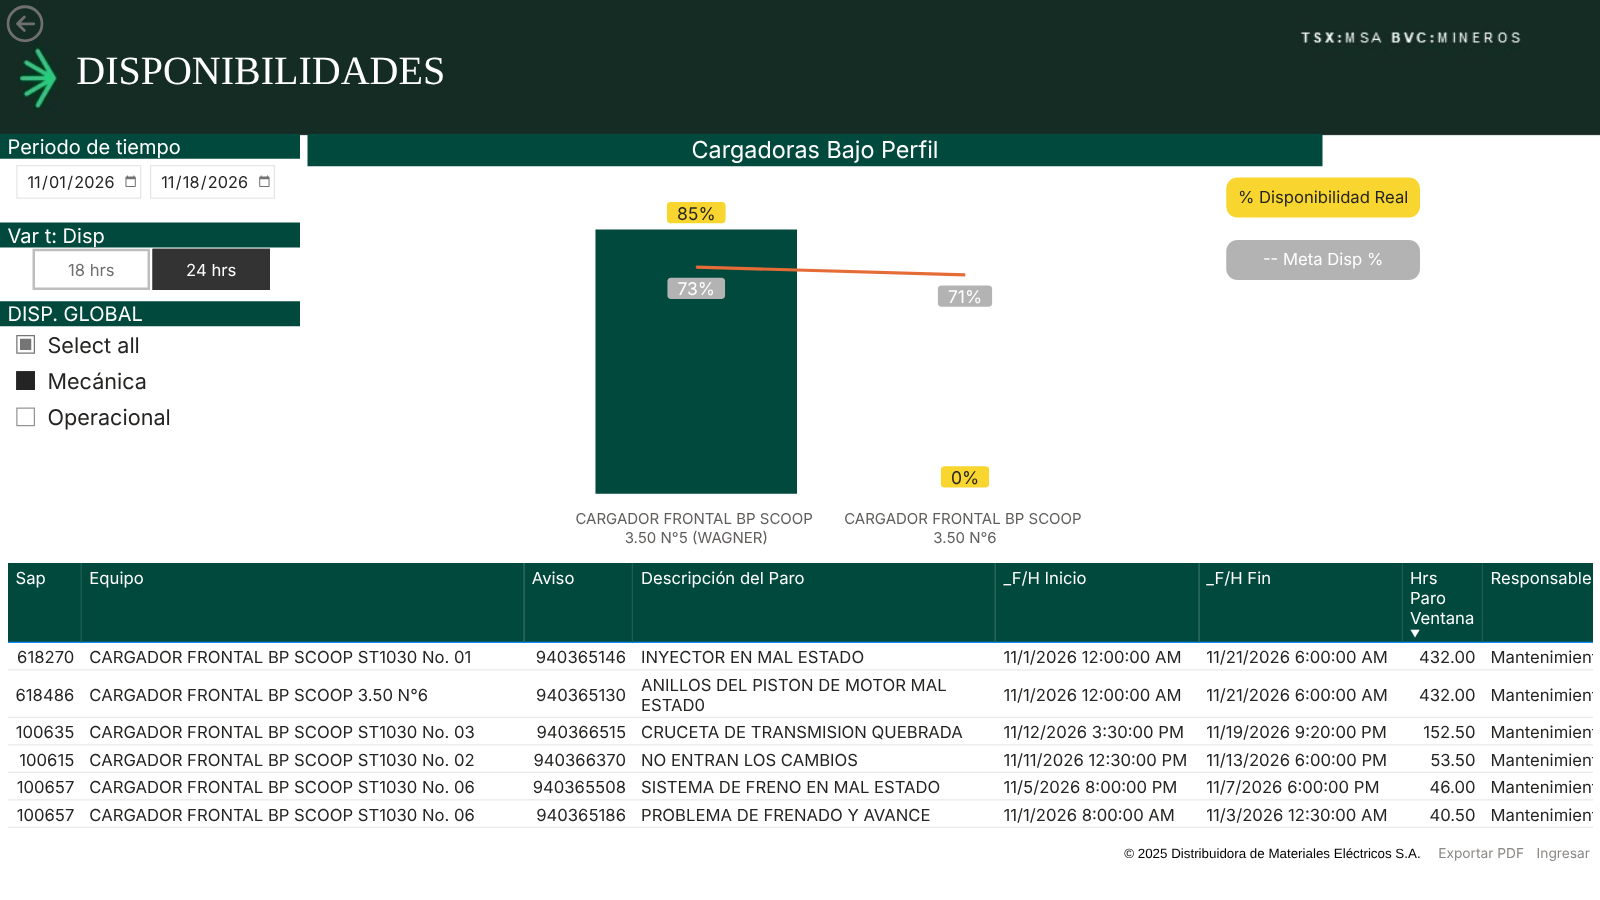
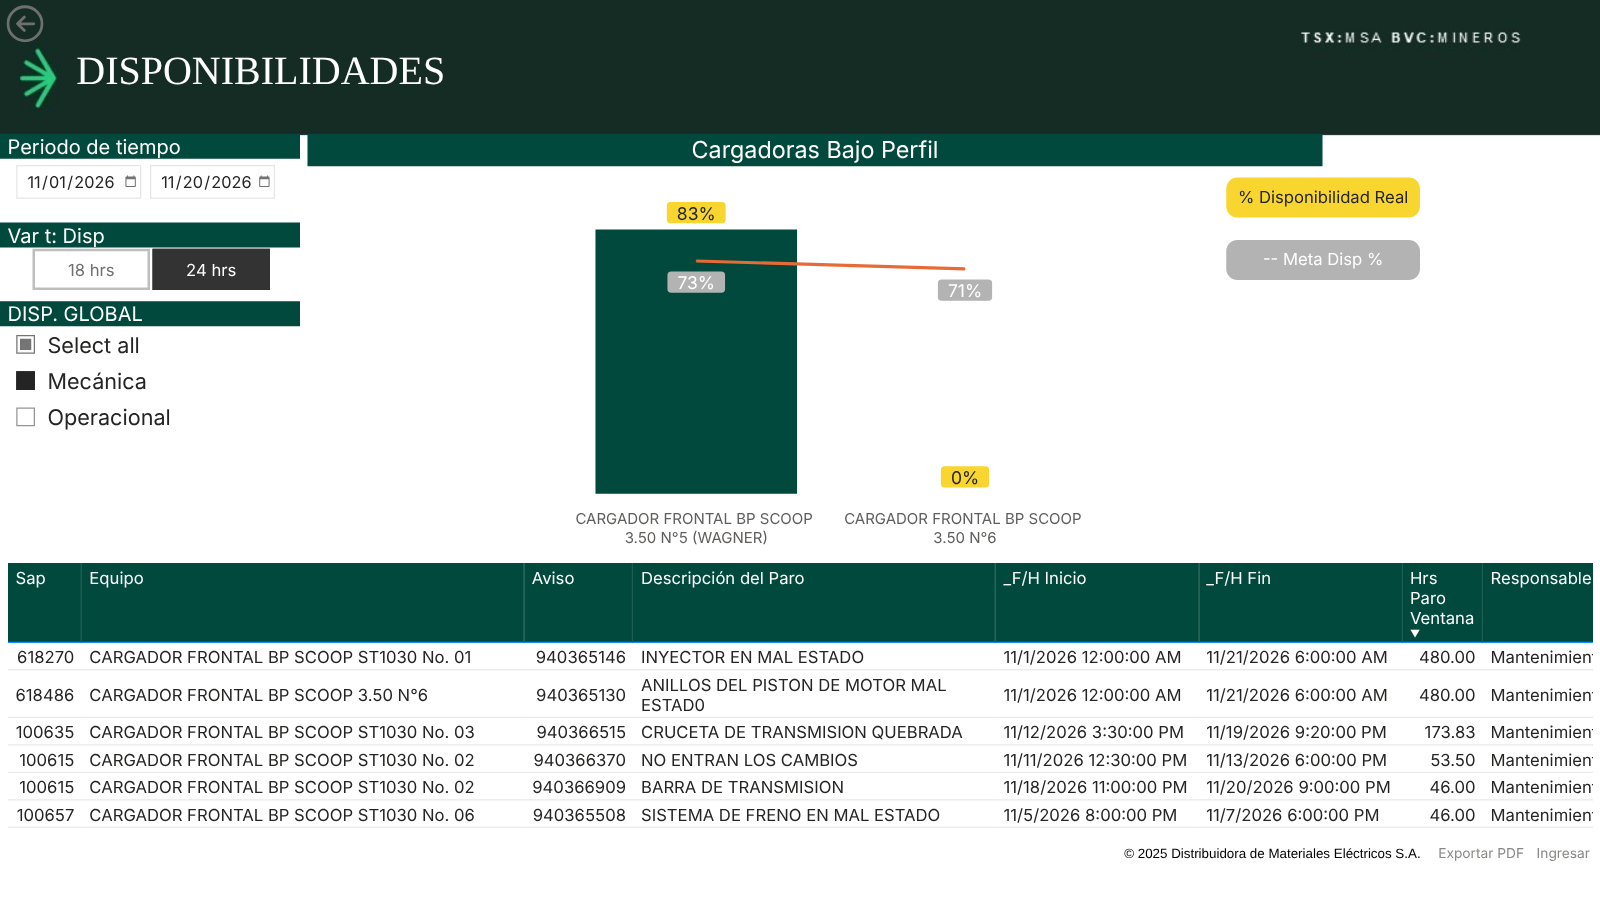
Informe de pruebas sobre la versión publicada con Resumen alineado: 23 de 23 y 0 diferencias
Claude-Session: https://claude.ai/code/session_01S28EfKDVFyr1ZrtpkDQrVX

diff --git a/docs/pruebas/informe_2026-11.md b/docs/pruebas/informe_2026-11.md
@@ -1,13 +1,13 @@
 # Informe de pruebas de punta a punta sobre la web publicada
 
-Fecha de ejecución: 2026-11-26. Web: https://samuelzapata293-wq.github.io/Indicadores-Dimelco/ (JS principal `index-BT9q4XBA.js`). Navegador: Chromium 157.0.8103.78, ventana 1600x900, como invitado. Duración de la corrida: 137 s. Script: `tests/e2e/publicada.mjs`; datos crudos: `docs/pruebas/resultados_e2e.json`.
+Fecha de ejecución: 2026-11-26. Web: https://samuelzapata293-wq.github.io/Indicadores-Dimelco/ (JS principal `index-1enDnb4W.js`). Navegador: Chromium 157.0.8103.78, ventana 1600x900, como invitado. Duración de la corrida: 141 s. Script: `tests/e2e/publicada.mjs`; datos crudos: `docs/pruebas/resultados_e2e.json`.
 
 ## Resumen
 
 - **Valores comparados contra Power BI: 10 466.** Iguales: **10 466**. Diferencias: **0**.
 - Fixtures de Power BI usados: 56 (13 de las capturas originales y 43 de los escenarios a, b, c, c_sindisp, d_conf12, d_conf24, e, f, g_tirolargo y g_sostenimiento).
 - **Comprobaciones funcionales: 23 de 23 pasaron.** No falló ninguna.
-- Tiempo desde abrir la web hasta ver números en Resumen (3 mediciones con caché fría): 2.40 s, 1.62 s, 1.44 s; promedio 1.82 s.
+- Tiempo desde abrir la web hasta ver números en Resumen (3 mediciones con caché fría): 3.37 s, 1.90 s, 1.81 s; promedio 2.36 s.
 - Control negativo: con filtros distintos a los del fixture, la comparación sí detecta diferencias (72 de 144; 630 de 630; 3 de 12; 43 de 126), así que "0 diferencias" no es una comparación vacía.
 
 ## Qué se comparó y cómo se leyó cada visual
@@ -170,7 +170,7 @@ Valores comparados: 227; iguales: 227; diferencias: 0.
 
 | Id | Comprobación | Resultado | Detalle |
 |---|---|---|---|
-| F04 | Portada: 'Data actualizada:' seguido de un rango de fechas válido | pasa | Data actualizada: 01 al 18 de noviembre 2026 |
+| F04 | Portada: 'Data actualizada:' seguido de un rango de fechas válido | pasa | Data actualizada: 01 al 20 de noviembre 2026 |
 | F04b | Portada: los 7 botones llevan a su página | pasa |  |
 | F01a | Filtros encadenados: período, Var t: Disp y DISP de Simba se conservan en Jumbo, Sostenimiento, ST3.5, ST1030 y Resumen | pasa |  |
 | F01b | Con los filtros cambiados, Disp % de cada gráfico de familia coincide con la de Resumen | pasa |  |
@@ -192,13 +192,13 @@ Valores comparados: 227; iguales: 227; diferencias: 0.
 | F08b | #/cargar manda a #/login a un invitado | pasa | destino #/login, formulario de ingreso: true |
 | F09 | Control negativo: con filtros distintos a los del fixture, la comparación detecta diferencias | pasa | Resumen por equipo con Var t: Disp 24 h contra el fixture de 18 h: 72 de 144 \| Tabla de paros de Simba con DISP Operacional contra el fixture de Mecánica: 630 de 630 \| Gráfico de Sostenimiento con otro período: 3 de 12 \| Disp Mensual con Var t: Disp 18 h contra el fixture de 24 h: 43 de 126 |
 | F06 | Sin errores de consola, de página ni respuestas HTTP de error durante toda la sesión | pasa |  |
-| F07 | Tiempo desde abrir la web hasta ver números en Resumen (3 mediciones) | pasa | 2402 ms, 1618 ms, 1440 ms (informativo; sin umbral) |
+| F07 | Tiempo desde abrir la web hasta ver números en Resumen (3 mediciones) | pasa | 3373 ms, 1904 ms, 1815 ms (informativo; sin umbral) |
 
 Notas de método:
 
 - F01 cambia período, Var t: Disp y DISP en Simba (01/10 al 31/10/2026, 18 hrs, solo Operacional) y llega a las demás páginas con los enlaces de la app (flecha de volver y botones de la Portada), no con la URL, para comprobar también la navegación.
 - F02 hace clic con el mouse en el centro de la segunda columna del gráfico de Simba. Confirma que la tabla queda solo con ese equipo y con todas sus filas, que las otras columnas se atenúan (opacidad 0.3) y que el segundo clic devuelve las filas originales.
-- F04: la Portada muestra "Data actualizada: 01 al 18 de noviembre 2026". El período inicial de Resumen es 2026-11-01 a 2026-11-18 (coincide con la Portada) y el de Disp Mensual 2026-07-01 a 2026-11-20. Disp Mensual no hereda el período general: arranca en su propio rango, distinto al de las demás páginas.
+- F04: la Portada muestra "Data actualizada: 01 al 20 de noviembre 2026". El período inicial de Resumen es 2026-11-01 a 2026-11-20 (coincide con la Portada) y el de Disp Mensual 2026-07-01 a 2026-11-20. Disp Mensual no hereda el período general: arranca en su propio rango, distinto al de las demás páginas.
 - F05 mide `scrollHeight` y `scrollWidth` del documento en las 8 páginas (Portada y 7 de tablero) a 1600x900 y a 1366x768. Las capturas de las 8 páginas a 1600x900, con los filtros iniciales, quedaron en `docs/pruebas/capturas_e2e/`.
 - F06 recoge `console.error`, errores de página, peticiones fallidas y respuestas HTTP 4xx o 5xx de toda la sesión.
 - F09 es el control negativo descrito en el resumen.
@@ -207,10 +207,10 @@ Notas de método:
 
 | Medición | Tiempo hasta ver números en Resumen |
 |---|---:|
-| 1 | 2.40 s (2402 ms) |
-| 2 | 1.62 s (1618 ms) |
-| 3 | 1.44 s (1440 ms) |
-| Promedio | 1.82 s |
+| 1 | 3.37 s (3373 ms) |
+| 2 | 1.90 s (1904 ms) |
+| 3 | 1.81 s (1815 ms) |
+| Promedio | 2.36 s |
 
 Cada medición abre un contexto nuevo del navegador (sin caché) en `#/resumen`, y termina cuando la primera fila de la tabla por equipo tiene MTTR numérico. Incluye descargar el sitio, leer las 5 tablas de Supabase (11 622 paros en varias peticiones) y calcular las medidas. Es un tiempo de punta a punta desde el entorno de pruebas, que sale por un proxy; desde otra red puede variar. En las exploraciones previas a esta corrida (versión publicada anterior y primeros intentos de la versión nueva), la tabla tardó más de 45 s y en un intento más de 240 s en aparecer; no se repitió en las mediciones finales, pero indica que la carga depende mucho de la red y de Supabase.
 
